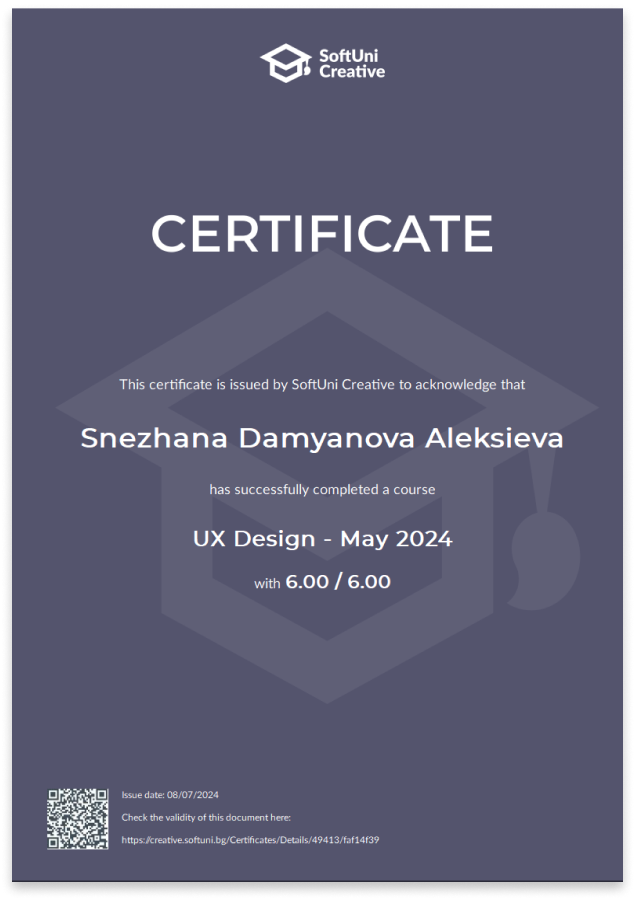
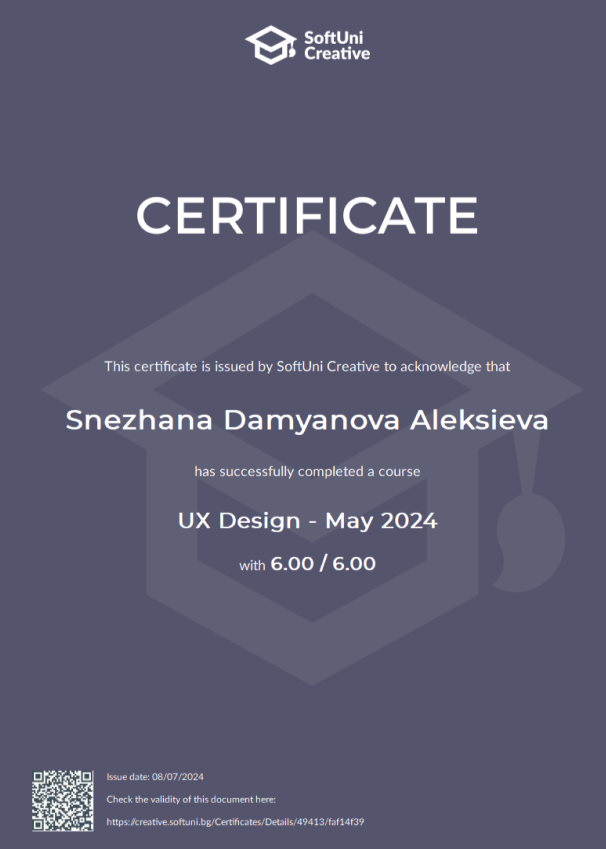
V

Changed region(s): [[0.0, 0.0, 1.0, 1.0], [0.1188, 0.3981, 0.9208, 0.6737], [0.2079, 0.2144, 0.802, 0.3062]]

diff --git a/app/components/AboutMe/Certificates.tsx b/app/components/AboutMe/Certificates.tsx
@@ -108,9 +108,8 @@ export default async function Certificates(): Promise<JSX.Element> {
                   src={image4}
                   alt="Certificate image"
                   style={{
-                    width: "194px",
+                    width: "200px",
                     height: "auto",
-                    marginTop: "2px",
                   }}
                 />
               </Link>
